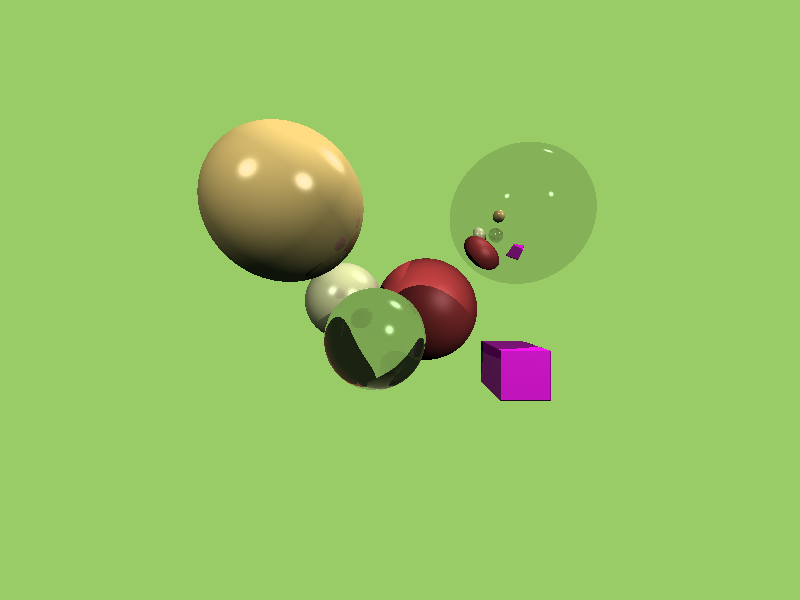
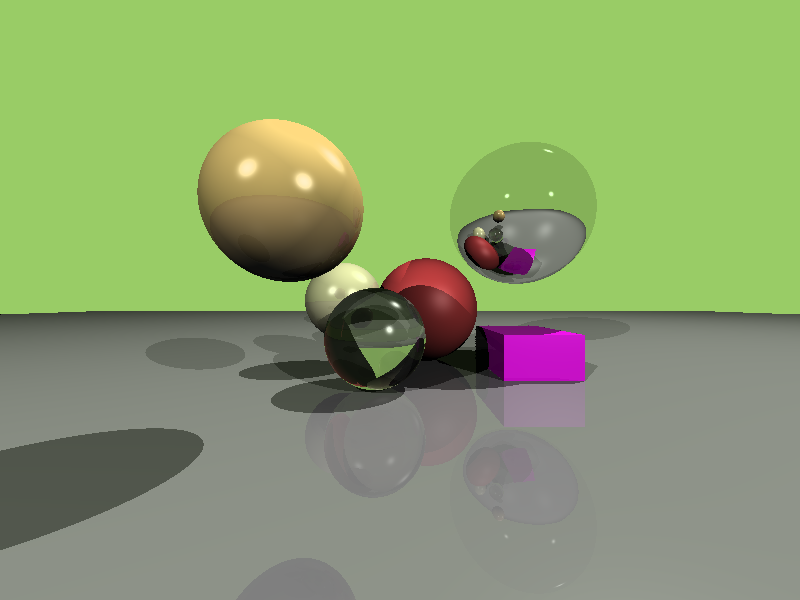
update sample scene

diff --git a/src/raytracer/render.rs b/src/raytracer/render.rs
@@ -73,6 +73,13 @@ mod tests {
             refractive_index: 1.,
         };
 
+        let mirror2 = Material {
+            diffuse_color: Color::new(40. / 255., 40. / 255., 40. / 255.),
+            albedo: Albedo::new(1., 0.1, 0.1, 0.0),
+            specular_exponent: 30.,
+            refractive_index: 1.,
+        };
+
         let l1 = Light::new(Position::new(-20., 20., 20.), 1.5);
         let l2 = Light::new(Position::new(30., 50., -25.), 1.8);
         let l3 = Light::new(Position::new(30., 20., 30.), 1.7);
@@ -83,9 +90,16 @@ mod tests {
         let sp4 = Sphere::new(Position::new(7., 5., -18.), 4., mirror.clone());
         let sp5 = Sphere::new(Position::new(-3., 2.5, -8.), 2., gold.clone());
         let box1 = AABBox::try_build(
-            Position::new(4., -4., -15.),
-            Position::new(6., -2., -12.),
+            Position::new(4.5, -3.5, -18.),
+            Position::new(8., -1.5, -13.),
             magenta.clone(),
+        )
+        .unwrap();
+
+        let floor = AABBox::try_build(
+            Position::new(-100., -20., -100.),
+            Position::new(100., -3.5, 100.),
+            mirror2.clone(),
         )
         .unwrap();
 
@@ -96,6 +110,7 @@ mod tests {
             .add_object(sp3)
             .add_object(sp4)
             .add_object(sp5)
+            .add_object(floor)
             .add_object(box1)
             .add_light(l1)
             .add_light(l2)

diff --git a/src/raytracer/world/objects/mod.rs b/src/raytracer/world/objects/mod.rs
@@ -13,7 +13,7 @@ pub use sphere::Sphere;
 
 pub trait Visible: Sync + Send {
     /// return the distance from the origin to the hit point
-    // FIX: maybe return the hit point position directly?
+    // PERF: give another bbox1D to accelerate the hit test
     fn hit_by_ray(&self, ray: &Ray) -> Option<f64>;
 
     /// The material of the object on that position
